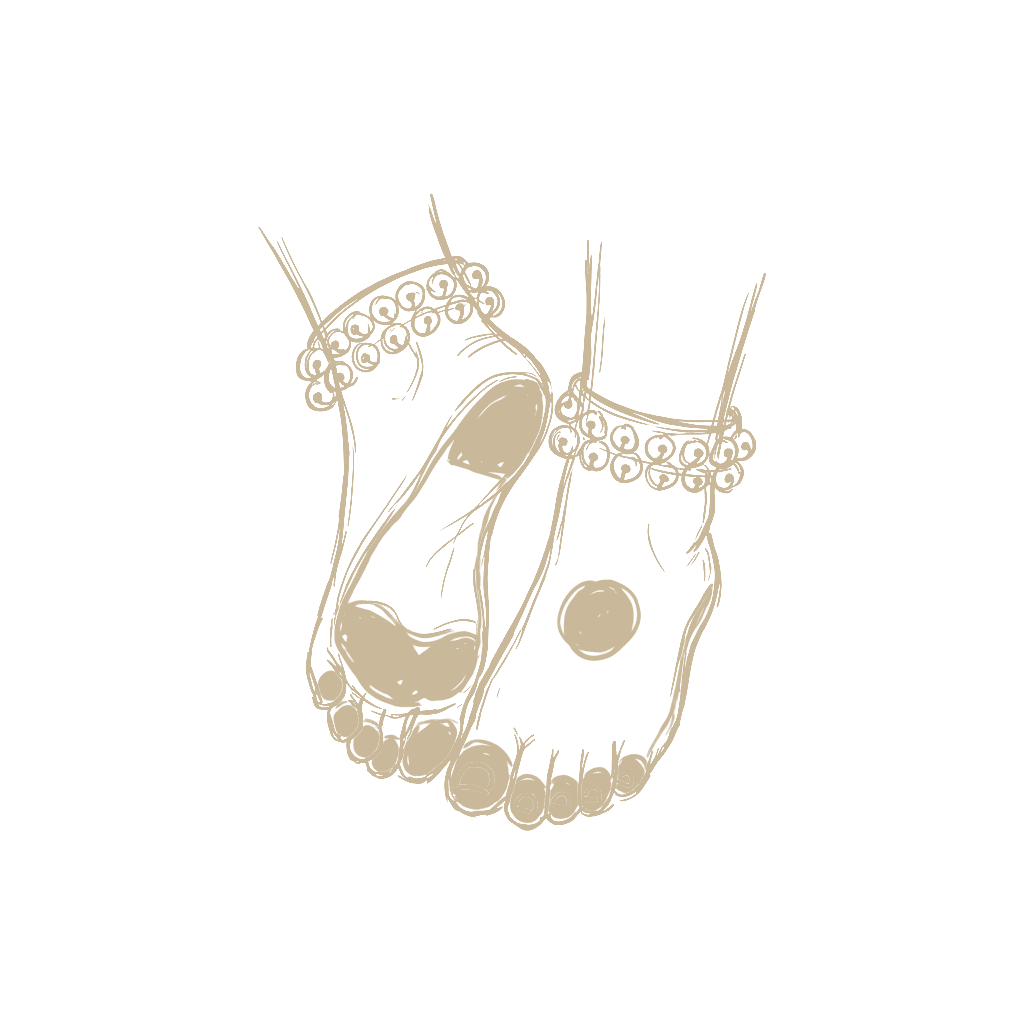
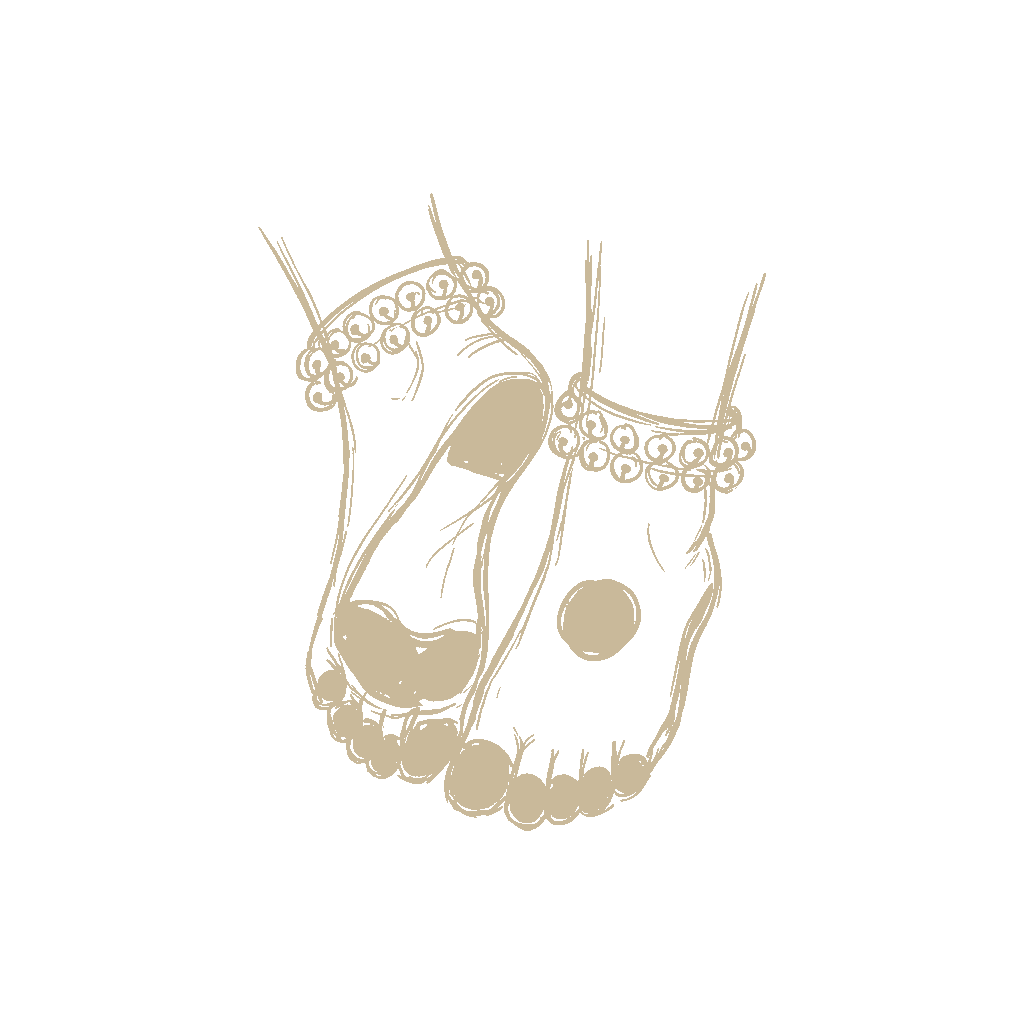
feat: add scroll and map AI generated doodles to homepage layout

diff --git a/src/pages/HomePage.jsx b/src/pages/HomePage.jsx
@@ -8,16 +8,18 @@ gsap.registerPlugin(ScrollTrigger)
 // ─── Perfect Transparent Doodles (Aligned) ─────────────────────────────────
 
 const ALIGNED_DOODLES = [
-  // LEFT SIDE (4 items)
-  { id: 'lamp', src: '/doodles/lamp.png', left: '15%', top: '15%', size: 100, rotation: -5 },
-  { id: 'building', src: '/doodles/building.png', left: '18%', top: '40%', size: 200, rotation: 0 },
-  { id: 'triangle', src: '/doodles/triangle.png', left: '12%', top: '65%', size: 120, rotation: 10 },
+  // LEFT SIDE (5 items)
+  { id: 'lamp', src: '/doodles/lamp.png', left: '15%', top: '10%', size: 100, rotation: -5 },
+  { id: 'building', src: '/doodles/building.png', left: '18%', top: '30%', size: 180, rotation: 0 },
+  { id: 'scroll', src: '/doodles/scroll.png', left: '14%', top: '50%', size: 140, rotation: 10 },
+  { id: 'triangle', src: '/doodles/triangle.png', left: '12%', top: '70%', size: 120, rotation: -5 },
   { id: 'crane', src: '/doodles/crane.png', left: '16%', top: '90%', size: 130, rotation: -2 },
   
-  // RIGHT SIDE (4 items)
-  { id: 'tube', src: '/doodles/tube.png', left: '85%', top: '15%', size: 110, rotation: 8 },
-  { id: 'dance', src: '/doodles/dance_feet.png', left: '82%', top: '40%', size: 180, rotation: -8 },
-  { id: 'laptop', src: '/doodles/laptop.png', left: '88%', top: '65%', size: 160, rotation: -5 },
+  // RIGHT SIDE (5 items)
+  { id: 'tube', src: '/doodles/tube.png', left: '85%', top: '10%', size: 110, rotation: 8 },
+  { id: 'dance', src: '/doodles/dance_feet.png', left: '82%', top: '30%', size: 180, rotation: -8 },
+  { id: 'laptop', src: '/doodles/laptop.png', left: '88%', top: '50%', size: 160, rotation: -5 },
+  { id: 'map', src: '/doodles/map.png', left: '84%', top: '70%', size: 150, rotation: 10 },
   { id: 'tape', src: '/doodles/tape.png', left: '85%', top: '90%', size: 100, rotation: 12 }
 ];
 